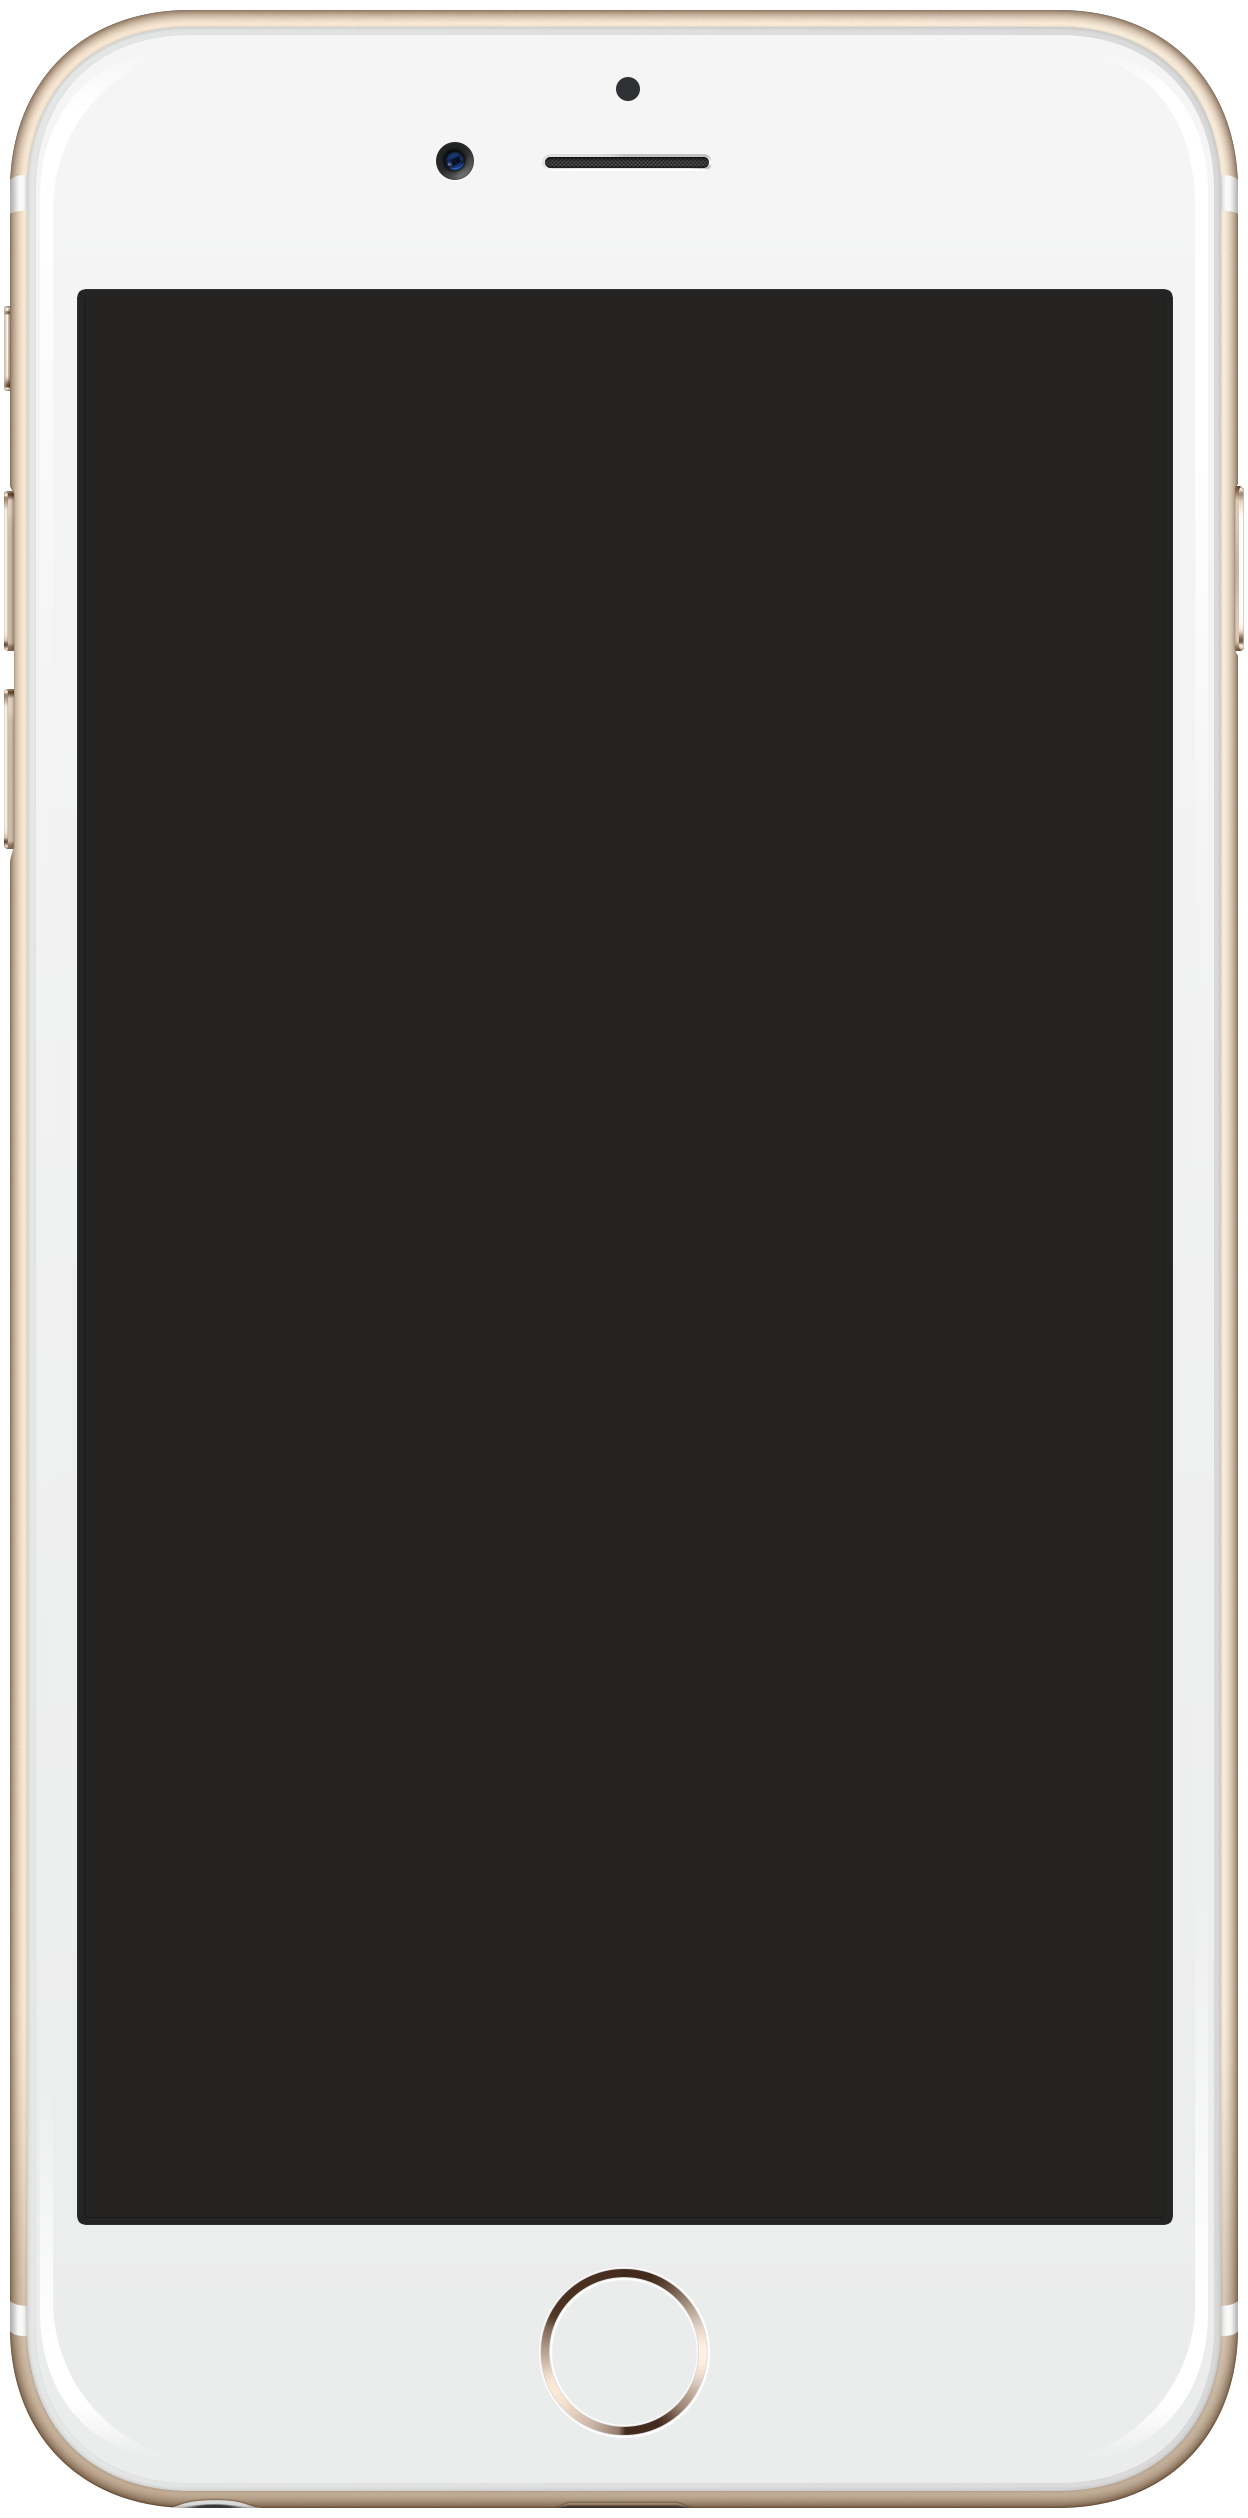
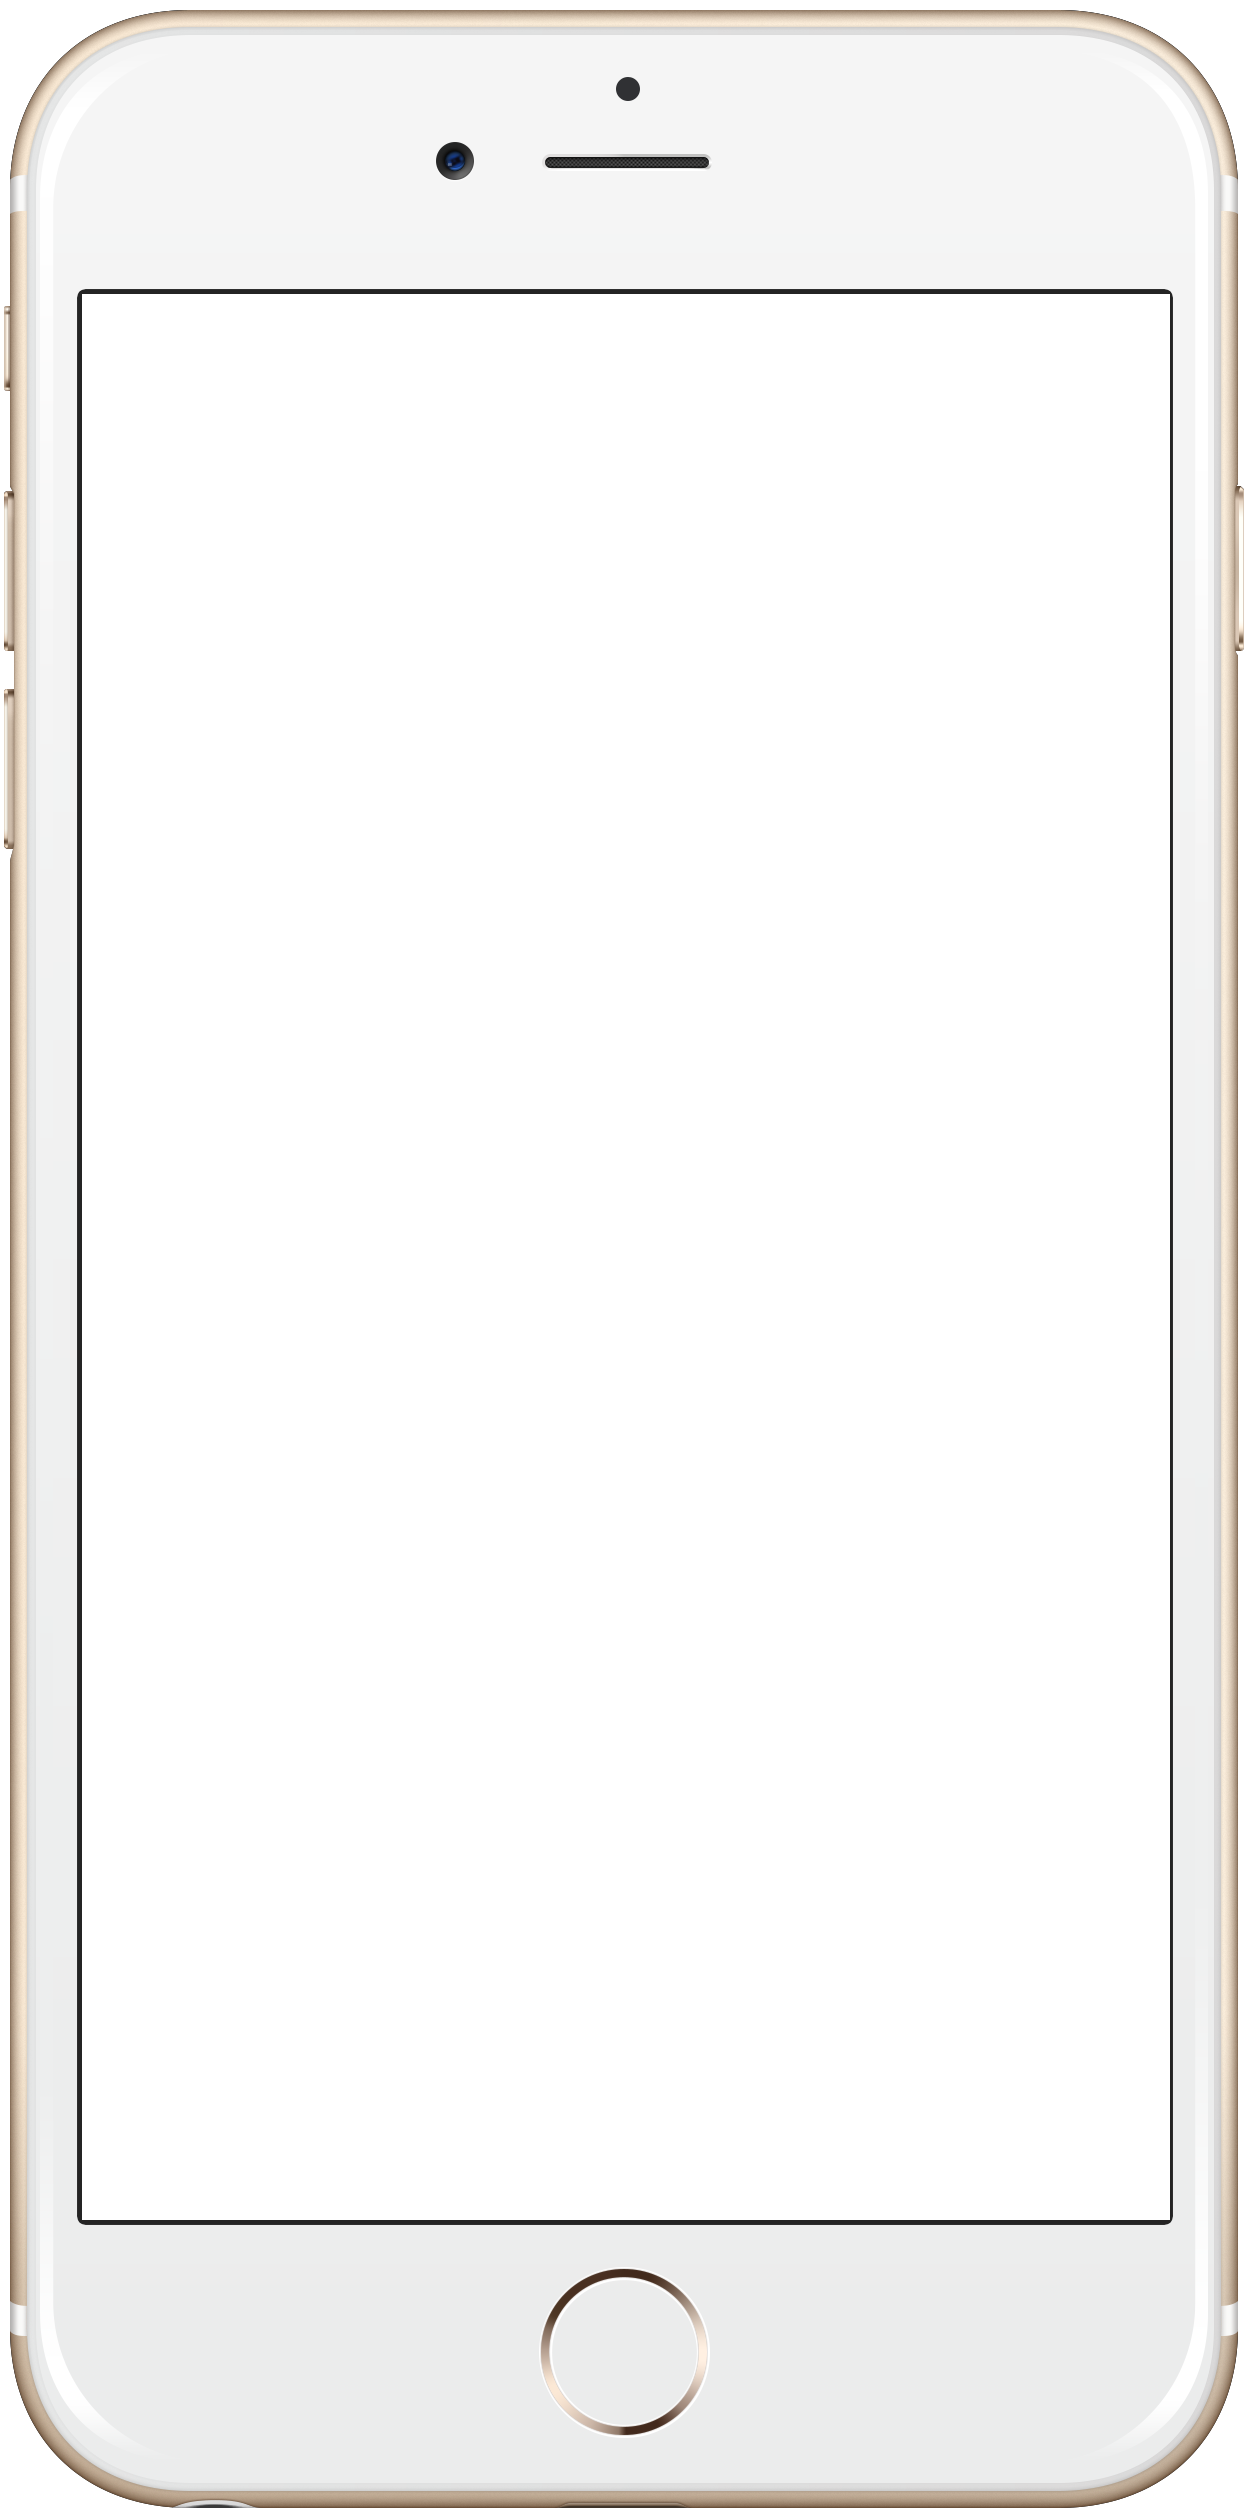
added username feature to base template; added coinmarketcap widgets e.t.c

diff --git a/crmapp/templates/base.html b/crmapp/templates/base.html
@@ -72,10 +72,14 @@
                             <li><a class="nav-link js-scroll-trigger" href="{% url 'currency_list' %}" class="p-r-none">Currencies</a></li>
                             <li><a class="nav-link js-scroll-trigger" href="{% url 'account_list' %}" class="p-r-none">Accounts</a></li>
                             <li><a class="nav-link js-scroll-trigger" href="/logout/">Logout</a></li>
+                            <li><a class="nav-link js-scroll-trigger" href="">
+                            Welcome, {{ user.get_username }}</a></li>
                         {% else %}
                         	<li class="nav-item">
                             <li><a class="nav-link js-scroll-trigger" href="/login/">Login</a></li>
                             <li><a class="nav-link js-scroll-trigger" href="{% url 'sub_new' %}" class="p-r-none">Sign Up</a></li>
+                            <li><a class="nav-link js-scroll-trigger" href="">
+                            Welcome, new user. Please log in.</a></li>
                         {% endif %}
           </ul>
         </div>

diff --git a/crmapp/templates/marketing/home.html b/crmapp/templates/marketing/home.html
@@ -65,7 +65,7 @@
         <div class="row">
           <div class="col-lg-4 my-auto">
             <div class="device-container">
-              <div class="device-mockup iphone6_plus portrait white">
+              <div class="device-mockup iphone6_plus portrait gold">
                 <div class="device">
                   <div class="screen">
                     <!-- Demo image for screen mockup, you can put an image here, some HTML, an animation, video, or anything else! -->
